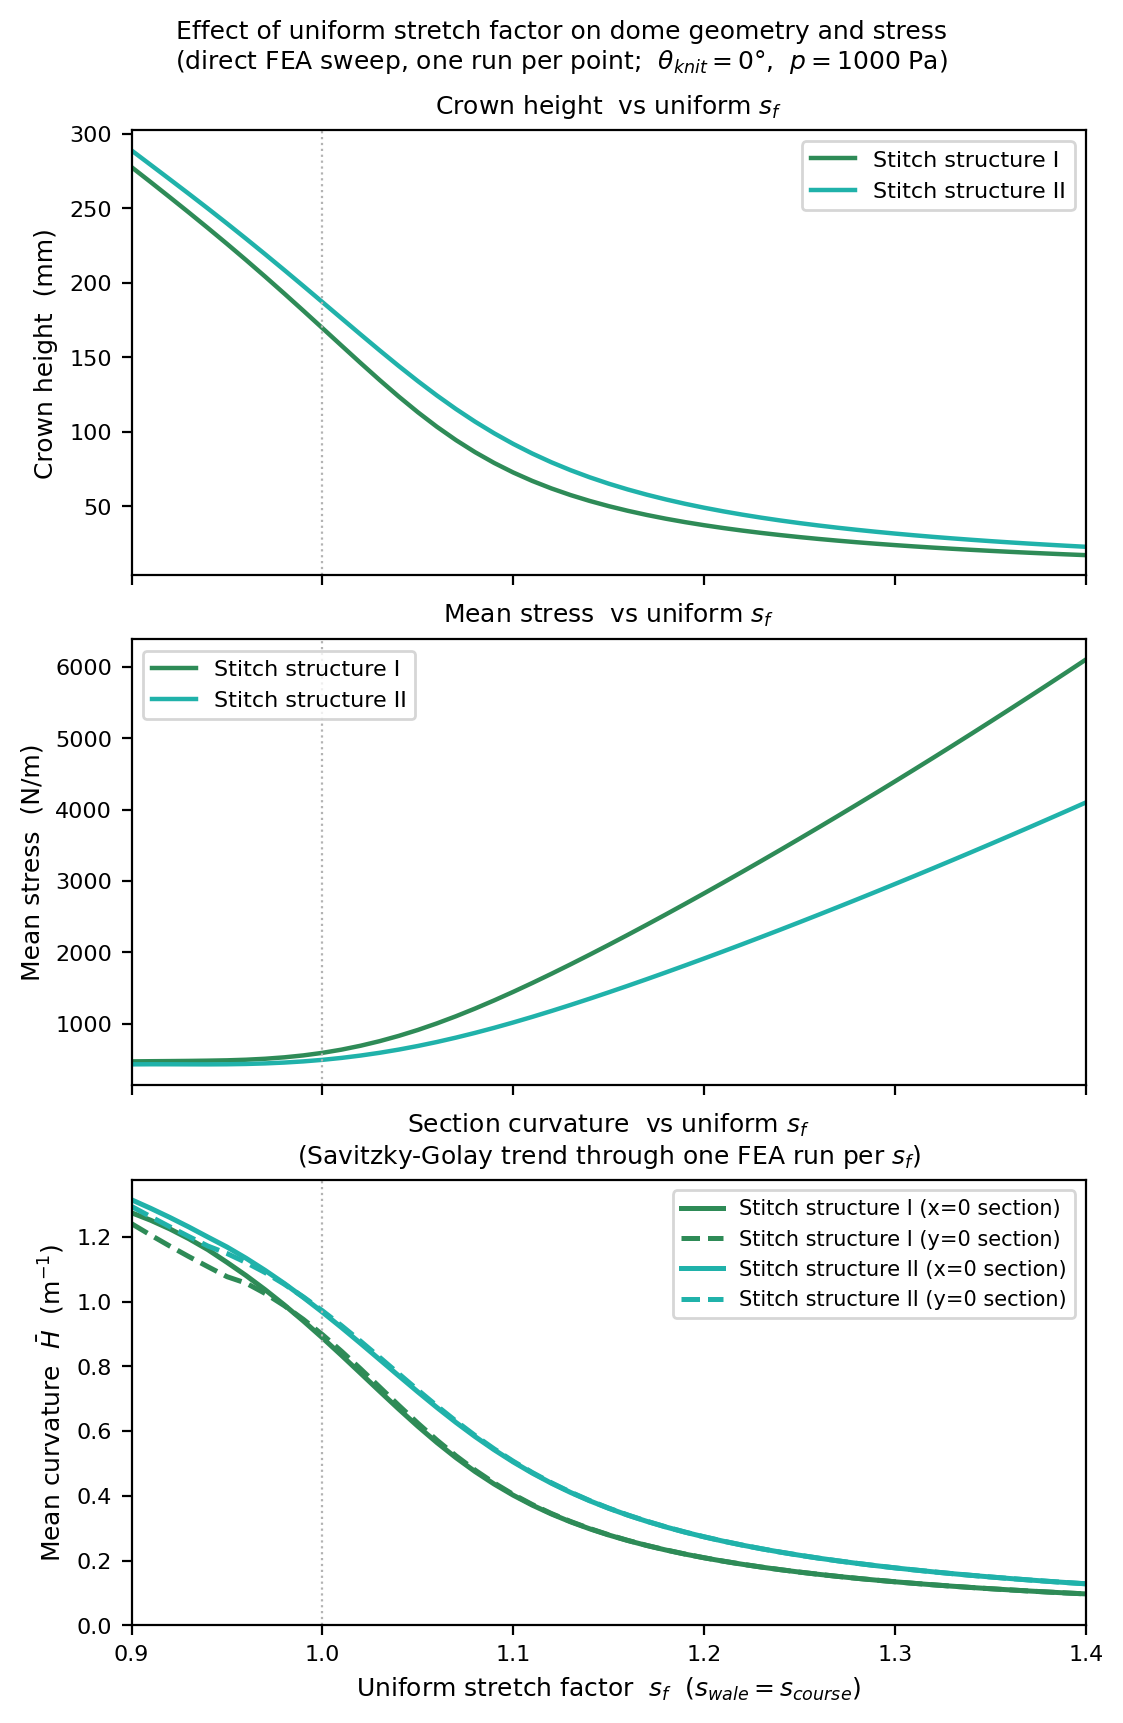
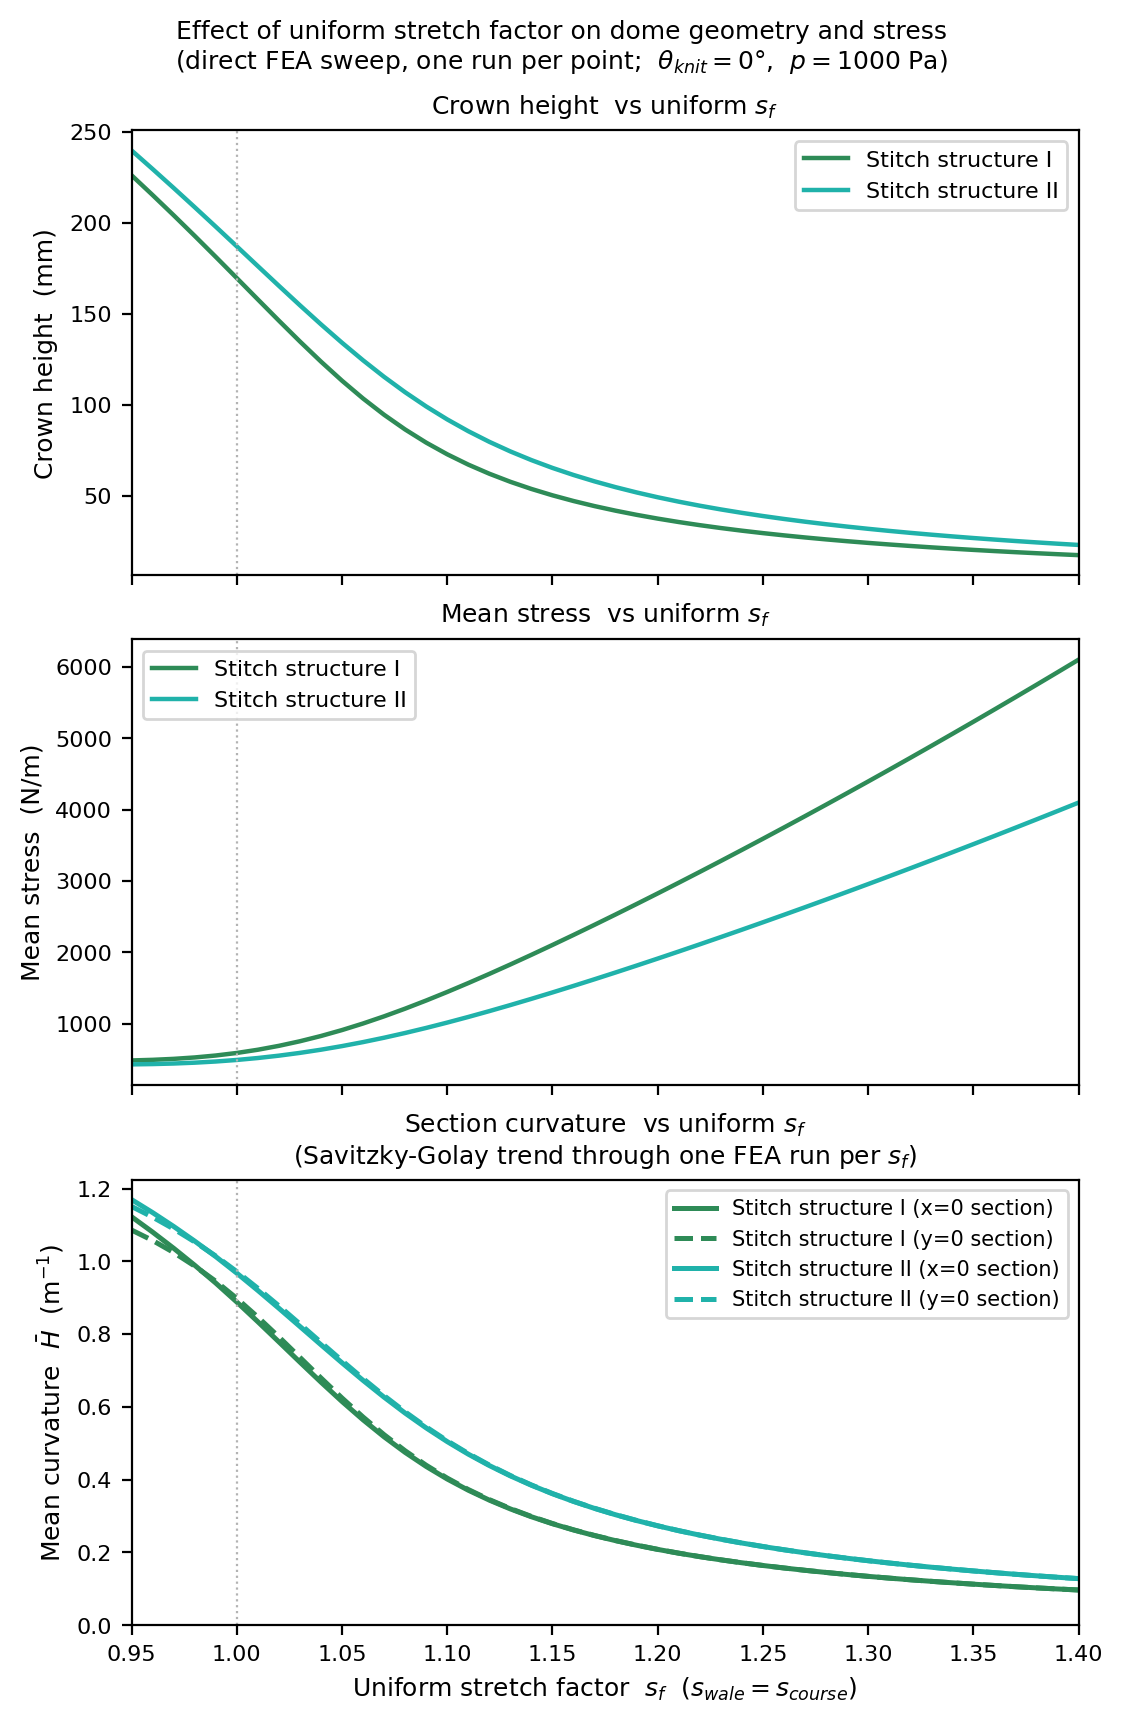
Figure 7.7: stretch factor 0.95-1.4, as Figure 7.8

diff --git a/sensitivity_analysis/plot_uniform_sf.py b/sensitivity_analysis/plot_uniform_sf.py
@@ -64,7 +64,7 @@ plt.rcParams.update({
 COLORS = {1: "#2E8B57", 2: "#20B2AA"}   # seagreen / lightseagreen
 LABELS = {1: "Stitch structure I", 2: "Stitch structure II"}
 
-SF_RANGE   = (0.9, 1.4)   # below 0.9 the Newton solve stops converging
+SF_RANGE   = (0.95, 1.4)  # as Figure 7.8; below ~0.98 the membrane carries compression
 SMOOTH_WIN = 9       # Savitzky-Golay window (points) for the curvature trend
 SMOOTH_ORD = 2
 
